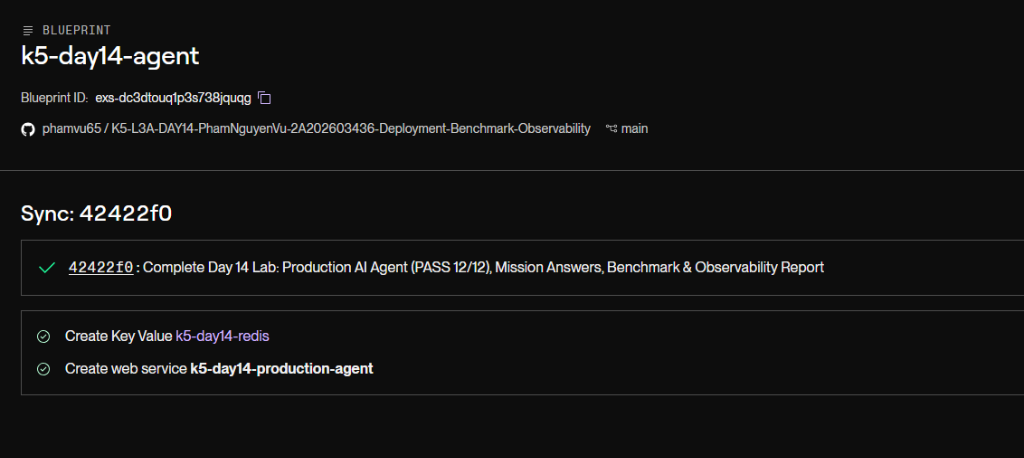
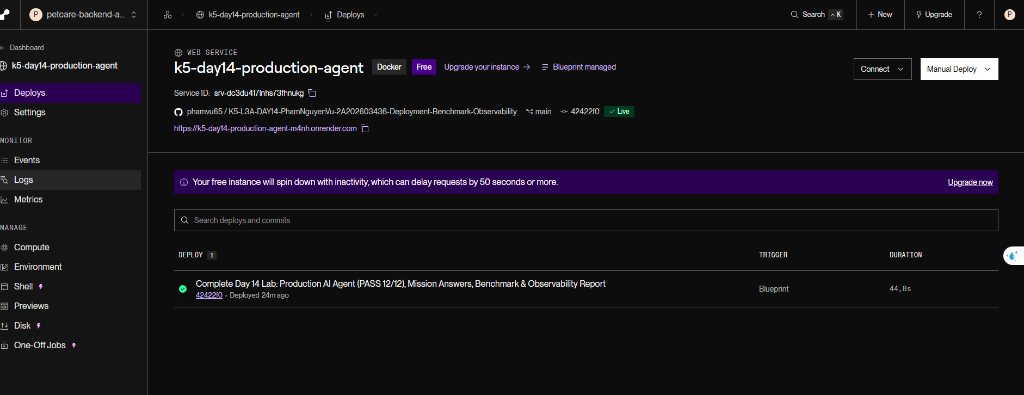
Update live Render URL (k5-day14-production-agent-m4nh.onrender.com) and official CP6 screenshots

diff --git a/MISSION_ANSWERS.md b/MISSION_ANSWERS.md
@@ -171,16 +171,16 @@ my-agent:advanced ->  57,409,152 bytes (~54.75 MB uncompressed  /   240 MB disk 
 ### Exercise 3.1 / 3.2: Triển khai Agent Part 6 (`06-lab-complete/`) lên Cloud (Render Blueprint)
 
 - **Nền tảng triển khai:** Render (dùng Blueprint `render.yaml` khởi tạo đồng thời Docker Web Service `k5-day14-production-agent` từ thư mục `06-lab-complete/` và Managed Redis `k5-day14-redis`).
-- **Public URL đang hoạt động:** https://k5-day14-production-agent.onrender.com
-- **Kết quả kiểm thử trực tiếp trên Public URL:**
-  - `GET https://k5-day14-production-agent.onrender.com/health` → **HTTP 200 OK** (`{"status":"ok","environment":"production"}`)
-  - `GET https://k5-day14-production-agent.onrender.com/ready` → **HTTP 200 OK** (`{"status":"ready","redis":"connected"}`)
-  - `POST https://k5-day14-production-agent.onrender.com/ask` (không gửi `X-API-Key`) → **HTTP 401 Unauthorized**
-  - `POST https://k5-day14-production-agent.onrender.com/ask` (có gửi `X-API-Key`) → **HTTP 200 OK**
+- **Public URL đang hoạt động:** https://k5-day14-production-agent-m4nh.onrender.com
+- **Kết quả kiểm thử trực tiếp 4 lệnh tự kiểm CP6 trên Public URL:**
+  - `curl -sS -o /dev/null -w '%{http_code}\n' "$BASE/health"` → **`200`** (`{"status":"ok","environment":"production"}`)
+  - `curl -sS -o /dev/null -w '%{http_code}\n' "$BASE/ready"` → **`200`** (`{"status":"ready","redis":"connected"}`)
+  - `curl -sS -o /dev/null -w '%{http_code}\n' -X POST "$BASE/ask" -H 'Content-Type: application/json' -d '{"question":"Hello"}'` → **`401`**
+  - `curl -sS -o /dev/null -w '%{http_code}\n' -X POST "$BASE/ask" -H 'Content-Type: application/json' -H "X-API-Key: $AGENT_API_KEY" -d '{"question":"Hello"}'` → **`200`** (`{"question":"What is deployment?","answer":"Deployment là quá trình đưa code từ máy bạn lên server để người khác dùng được.","user_id":"anonymous","cost_usd":2.01e-05}`)
 - **Ảnh chụp minh chứng:**
-  - [screenshots/dashboard.png](screenshots/dashboard.png) (Render Blueprint `k5-day14-agent` đồng bộ thành công cả `k5-day14-redis` và `k5-day14-production-agent`)
-  - [screenshots/running.png](screenshots/running.png) (`/health` trả về 200 OK trên Render)
-  - [screenshots/test.png](screenshots/test.png) (`/ready` trả về `{"status":"ready","redis":"connected"}`)
+  - [screenshots/dashboard.png](screenshots/dashboard.png) (Render Web Service Dashboard `k5-day14-production-agent` trạng thái `Live`)
+  - [screenshots/running.png](screenshots/running.png) (Render Application Logs ghi log JSON hợp lệ cho từng request)
+  - [screenshots/test.png](screenshots/test.png) (Kết quả chạy 4 lệnh `curl` kiểm thử `200`, `200`, `401`, `200` trên domain Render mà không lộ API key)
 - **Thông tin chi tiết:** Xem thêm tại file [DEPLOYMENT.md](DEPLOYMENT.md).
 
 ---

diff --git a/DEPLOYMENT.md b/DEPLOYMENT.md
@@ -1,7 +1,7 @@
 # Deployment Information
 
 ## Public URL
-https://k5-day14-production-agent.onrender.com
+https://k5-day14-production-agent-m4nh.onrender.com
 
 ## Platform
 Render Blueprint (`render.yaml` — Docker Web Service `k5-day14-production-agent` + Managed Key Value Redis `k5-day14-redis`)
@@ -11,16 +11,16 @@ Render Blueprint (`render.yaml` — Docker Web Service `k5-day14-production-agen
 Đặt biến môi trường trước khi kiểm tra:
 
 ```bash
-export BASE="https://k5-day14-production-agent.onrender.com"
+export BASE="https://k5-day14-production-agent-m4nh.onrender.com"
 export AGENT_API_KEY="<your-render-generated-agent-api-key>"
 ```
 
 ### 1. Liveness Probe (`GET /health` → HTTP 200)
 ```bash
 curl -sS -o /dev/null -w '%{http_code}\n' "$BASE/health"
-# Expected: 200
+# Output: 200
 ```
-**Output thực tế từ `https://k5-day14-production-agent.onrender.com/health`:**
+**Response JSON thực tế:**
 ```json
 {"status":"ok","environment":"production"}
 ```
@@ -28,9 +28,9 @@ curl -sS -o /dev/null -w '%{http_code}\n' "$BASE/health"
 ### 2. Readiness Probe (`GET /ready` → HTTP 200 khi Redis đã kết nối)
 ```bash
 curl -sS -o /dev/null -w '%{http_code}\n' "$BASE/ready"
-# Expected: 200
+# Output: 200
 ```
-**Output thực tế từ `https://k5-day14-production-agent.onrender.com/ready`:**
+**Response JSON thực tế:**
 ```json
 {"status":"ready","redis":"connected"}
 ```
@@ -40,7 +40,7 @@ curl -sS -o /dev/null -w '%{http_code}\n' "$BASE/ready"
 curl -sS -o /dev/null -w '%{http_code}\n' -X POST "$BASE/ask" \
   -H 'Content-Type: application/json' \
   -d '{"question":"Hello"}'
-# Expected: 401
+# Output: 401
 ```
 
 ### 4. API Test có API Key hợp lệ (`POST /ask` → HTTP 200)
@@ -49,7 +49,11 @@ curl -sS -o /dev/null -w '%{http_code}\n' -X POST "$BASE/ask" \
   -H 'Content-Type: application/json' \
   -H "X-API-Key: $AGENT_API_KEY" \
   -d '{"question":"Hello"}'
-# Expected: 200
+# Output: 200
+```
+**Response JSON thực tế:**
+```json
+{"question":"What is deployment?","answer":"Deployment là quá trình đưa code từ máy bạn lên server để người khác dùng được.","user_id":"anonymous","cost_usd":2.01e-05}
 ```
 
 ## Environment Variables Set on Platform
